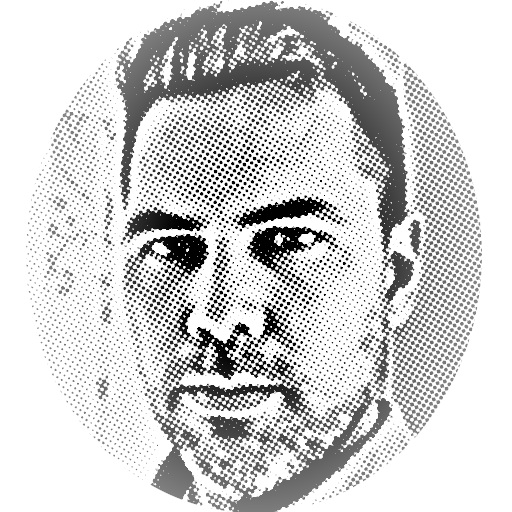
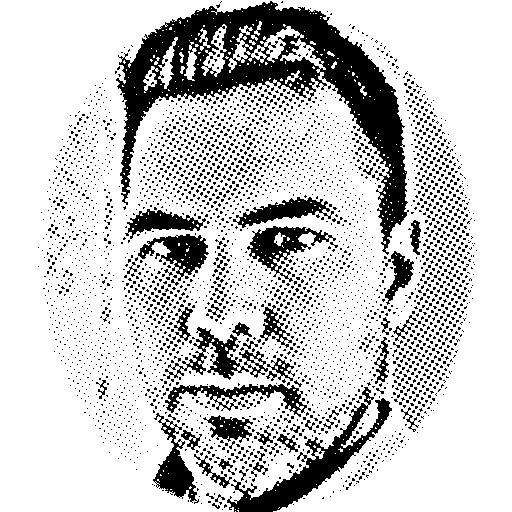
color to alpha

Changed region(s): [[0.0625, 0.0, 0.9375, 1.0]]

diff --git a/docs/index.md b/docs/index.md
@@ -7,7 +7,7 @@ Ham Radio project notebook and log for VE3MAL (Jay),
 an Amateur Radio operator in southern Ontario. "Hamdad" who
 looks to share a passionate interest in understanding technology, building new things, and getting out into
 nature.
-![jason's profile picture](assets/images/Profile_s.jpg)
+![jason's profile picture](assets/images/Profile.png)
 
 
 Projects topics include QRP, kit building, antenna design, HF digimodes and CW, VHF FM and APRS. Digital Voice, Hotspots, POTA, and more.
